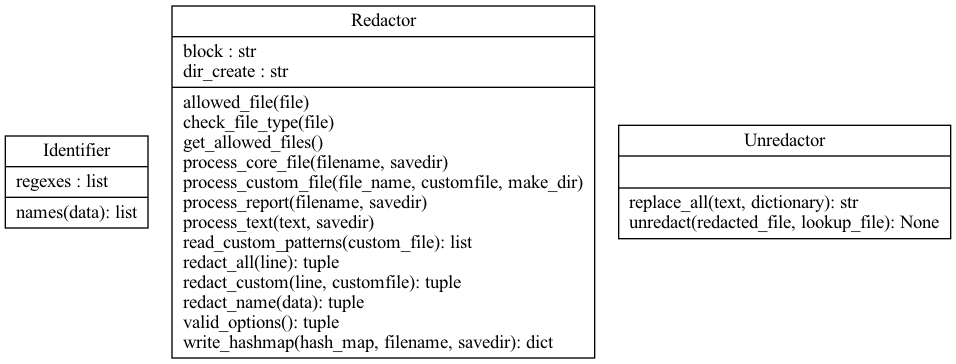
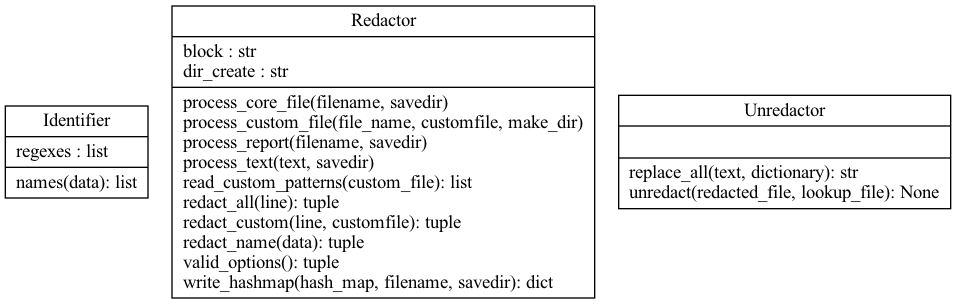
working refactor so far

diff --git a/pyredactkit/core_redactor.py b/pyredactkit/core_redactor.py
@@ -1,4 +1,4 @@
-""" Main redactor class implementation """
+""" Core redactor engine class implementation """
 
 import mimetypes
 import os
@@ -10,13 +10,13 @@ import uuid
 
 from pyredactkit.identifiers import Identifier
 id_object = Identifier()
-""" Main redactor library """
+""" Coreredactor library """
 
 
-class Redactor:
-    """Redactor class
+class CoreRedactorEngine:
+    """CoreRedactorEngine class
     Class containing all methods to support redaction
-    of sensitive data
+    of core sensitive data type
 
     Static variables:
         block (unicode string): To redact sensitive data
@@ -34,52 +34,7 @@ class Redactor:
         Returns:
             None
         """
-        self.__allowed_files__ = [
-            "text/plain",
-            "text/x-python",
-            "application/json",
-            "application/javascript",
-            "text/html",
-            "text/csv",
-            "text/tab-separated-values",
-            "text/css",
-            "text/cache-manifest",
-            "text/calendar",
-        ]
-
-    @staticmethod
-    def check_file_type(file):
-        """Checks for the supplied file type
-        Args:
-            file (str): Filename of file to check
-        Returns:
-            mime (str): Mime type
-        """
-        if not os.path.isfile(file):
-            return (None, None)
-        return mimetypes.guess_type(file)[0]
-
-    def get_allowed_files(self):
-        """Gets a list of allowed files
-        Args:
-            None
-        Returns:
-            allowed_file (list): List of allowed files
-        """
-        return self.__allowed_files__
-
-    def allowed_file(self, file):
-        """Checks if supplied file is allowed
-        Checks the supplied file to see if it is in the allowed_files list
-        Args:
-            file (str): File to check
-        Returns:
-            False: File not found / File type is not allowed
-            True: File is allowed
-        """
-        if not os.path.isfile(file):
-            return False
-        return mimetypes.guess_type(file)[0] in self.get_allowed_files()
+        return None
 
     def read_custom_patterns(self, custom_file) -> list:
         '''Load Rules

diff --git a/pyredactkit/common_jobs.py b/pyredactkit/common_jobs.py
@@ -1,0 +1,29 @@
+""" Common jobs class implementation """
+import mimetypes
+import os
+import sys
+import re
+import math
+import json
+import uuid
+
+
+class CommonJobs:
+    """Common Jobs class
+    Class containing all methods to support redaction
+    of sensitive data
+
+    Static variables:
+        block (unicode string): To redact sensitive data
+    """
+
+    def __init__(self) -> None:
+        """
+        Class Initialization
+        Args:
+            None
+
+        Returns:
+            None
+        """
+        return None

diff --git a/pyredactkit/pyredactkit.py b/pyredactkit/pyredactkit.py
@@ -5,14 +5,14 @@ Utility to redact sensitive data
 
 import argparse
 
-from pyredactkit.redact import Redactor
+from pyredactkit.core_redactor import CoreRedactorEngine
 from pyredactkit.unredact import Unredactor
 import os
 import glob
 import sys
 
 # Creating instances of redact and unredact classes
-redact_obj = Redactor()
+redact_obj = CoreRedactorEngine()
 unredact_obj = Unredactor()
 
 

diff --git a/tests/test_redact.py b/tests/test_redact.py
@@ -1,5 +1,5 @@
 import pytest
-from pyredactkit.redact import Redactor
+from pyredactkit.core_redactor import Redactor
 
 data = """John, please get that article on www.linkedin.com to me by 5:00PM on Jan 9th 2012. 4:00 would be ideal, actually. If you have any questions, You can reach me at(519)-236-2723 or get in touch with my associate at harold.smith@gmail.com
 this is my IP: 102.23.5.1

diff --git a/README.md b/README.md
@@ -71,28 +71,6 @@ Redact using custom regex pattern
 pyredactkit -f file -c custom.json
 ```
 
-<!-- Install nltk data for redacting names
-
-```bash
-python -c "import nltk
-import ssl
-
-try:
-    _create_unverified_https_context = ssl._create_unverified_context
-except AttributeError:
-    pass
-else:
-    ssl._create_default_https_context =_create_unverified_https_context
-
-nltk.download('popular')"
-```
-
-Redact names from a text file
-
-```bash
-pyredactkit test.txt -t name
-``` -->
-
 ### Use from github source
 
 Clone the repo
